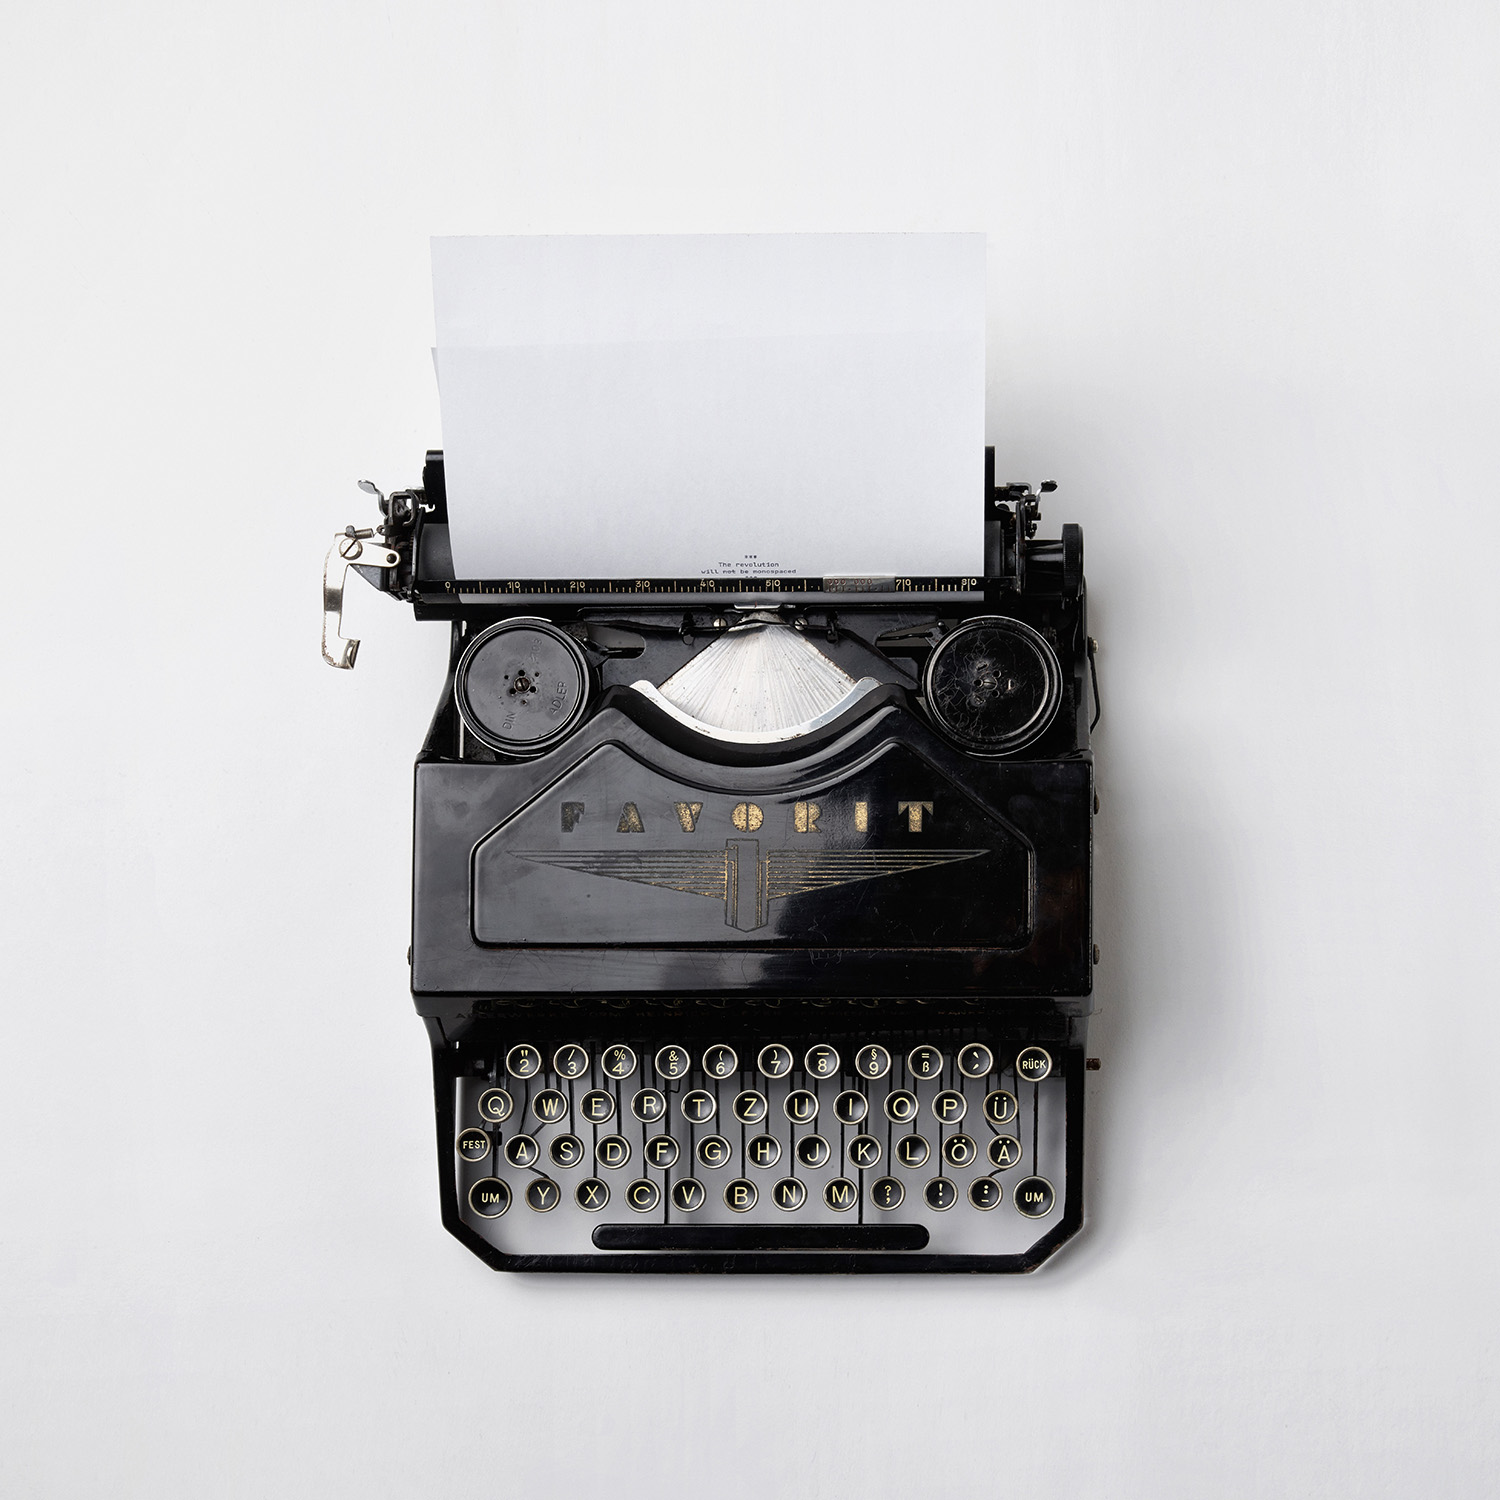
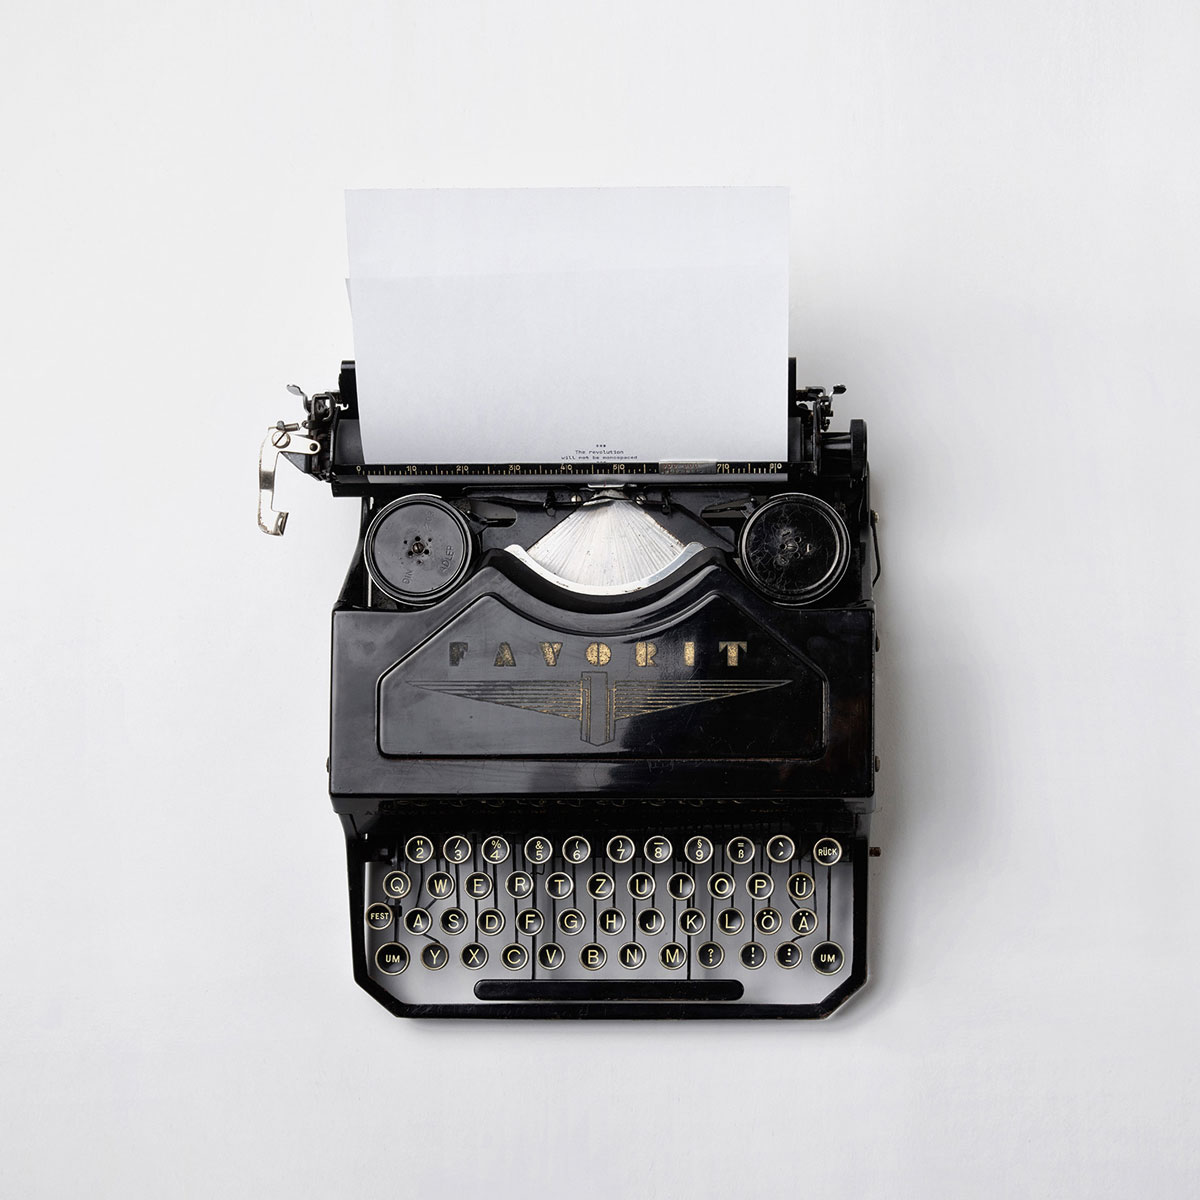
image quality

diff --git a/portfolio.html b/portfolio.html
@@ -37,7 +37,10 @@
               <h2>FRILE</h2>
               <p>For this assignment we were asked to create a magazine with a target audience in USA and Canada.
                 We had to produce a name, logo, front/back page, images, illustrations and a complete layout.
-                I created a magazine that is a simplistic with some colour, focuses on the use of typography,
+                I created a magazine that is a simplistic with some colour with focuses on the use of typography.
+
+
+
                 gives the impression of exclusiveness, but are at the same time personal. Overall, I also
                 wanted to give a positive, light and free feel to the magazine. The name “frile” comes from this
                 idea of light and free. Colour is added to give a positive feel, handwritten fonts to give it a
@@ -102,10 +105,10 @@
           “Farm fresh to you”, which planned to expand to Grimstad. It’s originally a US based company 
           which partners with local farmers and do home deliveries of fresh vegetables. 
           The target group for this project was the population of Grimstad, further limited to couples and 
-          couples with children as a main focus. I created a logo with a friendly and playful look to target 
+          families with children as a main focus. I created a logo with a friendly and playful look to target 
           families. The icon of the logo is a wheat field, as there are many of these in Grimstad, in-closing 
-          it in a round shape as this is a playful and friendly shape. I used warm and natural colours, colours 
-          of the field and fresh vegetables. And I choose fonts similar to does used for previous design work 
+          it in a circle as this is a playful and friendly shape. I used warm and natural colours, colours 
+          of the field and fresh vegetables. And I choose fonts similar to those used for previous design work 
           done for Grimstad, together with a handwritten font which added some personal touch to the design. 
           The round shape was re-used in colours from the logo in a pattern together with graphics of fresh 
           vegetables as a design element both on the delivery van and packaging. </p>
@@ -123,19 +126,19 @@
               <img src="/images/logo.farmfresh.png" class="d-block w-75 mx-auto" alt="...">
             </div>
             <div class="carousel-item" data-bs-interval="2000">
-              <img src="/images/bag.front.farmfresh2.png" class="d-block w-75 mx-auto" alt="...">
+              <img src="/images/bag.front.farmfresh2.jpg" class="d-block w-75 mx-auto" alt="...">
             </div>
             <div class="carousel-item">
-              <img src="/images/bag.back.farmfresh.png" class="d-block w-75 mx-auto" alt="...">
+              <img src="/images/bag.back.farmfresh.jpg" class="d-block w-75 mx-auto" alt="...">
             </div>
             <div class="carousel-item">
-              <img src="/images/deliveryvan.front.png" class="d-block w-75 mx-auto" alt="...">
+              <img src="/images/deliveryvan.front.jpg" class="d-block w-75 mx-auto" alt="...">
             </div>
             <div class="carousel-item">
-              <img src="/images/deliveryvan.side2.png" class="d-block w-75 mx-auto" alt="...">
+              <img src="/images/deliveryvan.side2.jpg" class="d-block w-75 mx-auto" alt="...">
             </div>
             <div class="carousel-item">
-              <img src="/images/deliveryvan.back.png" class="d-block w-75 mx-auto" alt="...">
+              <img src="/images/deliveryvan.back.jpg" class="d-block w-75 mx-auto" alt="...">
             </div>
           </div>
           <a class="carousel-control-prev" href="#carouselFarm-fresh" role="button" data-bs-slide="prev">
@@ -161,18 +164,18 @@
         <div class="container">
           <div class="row">
           <div class="col-12 ps-4 ps-md-auto col-md-10 col-lg-6 offset-md-1 pb-4 pb-md-5 pt-md-5">
-        <h2>THE GRIMSTAD URBAN FLOWER FESTIVAL</h2>
+        <h2>FLOWER FESTIVAL</h2>
         <p>For this assignment we were asked to promote an annual “Urban Garden and Flower Festival” in the nearest town, Grimstad. 
           We where asked to produce a logo, a brand manual and four touch points: a poster, 
           a program, a t-shirt and a ticket bracelet. </p>
           <p>To create a “Grimstad feel” over the festival I a choose a farm-like style with soft pastel colours 
           and flowers, combined with a modern font and playful layout. The modern tone was to meet also the 
           large population of young adults living in Grimstad, and the playfulness for families with children. 
-          I use several images of colourful spring flowers for inspiration to gardening. 
+          I used several images of colourful spring flowers for inspiration to gardening. 
           The logo of the festival is used in the same way on each touch-point, and several of the typography 
           elements are also re-used. The colours from the logo is used as brand colours, and the 
           leafs from the icon of the logo as a graphic element on the ticket bracelet. I also added a yellow line 
-          as a graphic element to the brand, in the yellow logo colour, which I use on several of the touch points. 
+          as a graphic element to the brand, in the yellow logo colour, which I used on several of the touch points. 
           Overall this resulted in a consistent festival brand with a look and feel I believe will appeal to the 
           intended target group, population of Grimstad.</p> 
           <p>For the brand manual please click the link below to open a PDF version.  </p>
@@ -186,19 +189,19 @@
                 <img src="/images/logo.flowerfestival.png" class="d-block w-75 mx-auto" alt="...">
               </div>
               <div class="carousel-item active" data-bs-interval="10000">
-                <img src="/images/folder.flowerfestival.front.png" class="d-block w-75 mx-auto" alt="...">
+                <img src="/images/folder.flowerfestival.front.jpg" class="d-block w-75 mx-auto" alt="...">
               </div>
               <div class="carousel-item" data-bs-interval="2000">
-                <img src="/images/folder.flowerfestival.inside.png" class="d-block w-75 mx-auto" alt="...">
+                <img src="/images/folder.flowerfestival.inside.jpg" class="d-block w-75 mx-auto" alt="...">
               </div>
               <div class="carousel-item">
-                <img src="/images/folder.flowerfestival.back.png" class="d-block w-75 mx-auto" alt="...">
+                <img src="/images/folder.flowerfestival.back.jpg" class="d-block w-75 mx-auto" alt="...">
               </div>
               <div class="carousel-item">
-                <img src="/images/Front-tshirt.SP2.png" class="d-block w-75 mx-auto" alt="...">
+                <img src="/images/Front-tshirt.SP2.jpg" class="d-block w-75 mx-auto" alt="...">
               </div>
               <div class="carousel-item">
-                <img src="/images/Back-tshirt.SP.png" class="d-block w-75 mx-auto" alt="...">
+                <img src="/images/Back-tshirt.SP.jpg" class="d-block w-75 mx-auto" alt="...">
               </div>
               <div class="carousel-item">
                 <img src="/images/poster.SP5.jpg" class="d-block w-75 mx-auto" alt="...">
@@ -234,7 +237,7 @@
             <div class="col-12 ps-4 ps-md-auto col-md-10 col-lg-6 offset-md-1 pb-4 pb-md-5 pt-md-5">
         <h2>UNGDOM I OPPDRAG</h2>
         <p>For the organization "Ungdom i Oppdrag-Oslo" I was asked to create a folder and a rollup. It was to promote 
-          the organization amongst young adults and students in Oslo. Dark blue was a colour already used a lot by the organization
+          the organization amongst young adults and students in Oslo. Dark blue was a colour already affilieted with the organization
         so I used this in combination with a light blue and yellow. This gave them a stronger brand colour scheme. I used lines and the same
         typeface on both designes to create conistency. I also used the same images, which show students working in the organizationand 
     and a street in Oslo. The logo is designed by the organization.  </p>
@@ -248,13 +251,13 @@
         
             <div class="carousel-inner">
               <div class="carousel-item active" data-bs-interval="10000">
-                <img src="/images/folder.ywam.front.png" class="d-block w-75 mx-auto" alt="...">
+                <img src="/images/folder.ywam.front.jpg" class="d-block w-75 mx-auto" alt="...">
               </div>
               <div class="carousel-item" data-bs-interval="2000">
-                <img src="/images/ywam.folder.inside.png" class="d-block w-75 mx-auto" alt="...">
+                <img src="/images/ywam.folder.inside.jpg" class="d-block w-75 mx-auto" alt="...">
               </div>
               <div class="carousel-item">
-                <img src="/images/ywam.folder.back.png" class="d-block w-75 mx-auto" alt="...">
+                <img src="/images/ywam.folder.back.jpg" class="d-block w-75 mx-auto" alt="...">
               </div>
               <div class="carousel-item">
                 <img src="/images/Rollup.ywam2.png" class="d-block w-75 mx-auto" alt="...">

diff --git a/index.html b/index.html
@@ -42,7 +42,7 @@
         <div class="header-second col-6 p-0 m-0 d-flex align-items-center align-items-md-center justify-content-start position-relative">
             <h1 class="pb-5 mb-5 ps-1">design.</h1>
             <div class="w-50 d-none d-md-block position-absolute bottom-0 mb-5 pb-5 ps-5 ms-5">
-              <p class="">On this site you can get to know me and my work. Send me a message if you are curious 
+              <p class="">On this site you can get to know me and my work. Send me a message if you are curious about
                 what I can do for you.</p>
               <div class="my-5 d-flex justify-content-end">
                 <a href="contact.html" class="link text-right mb-5">Contact me</a>
@@ -50,7 +50,7 @@
             </div>
         </div>
         <div class="w-100 d-block d-md-none text-center my-5 py-5">
-          <p class="w-75 mx-auto">On this site you can get to know me and my work. Send me a message if you are curious what I can do for you.</p>
+          <p class="w-75 mx-auto">On this site you can get to know me and my work. Send me a message if you are curious about what I can do for you.</p>
           <div class="text-center">
             <a href="contact.html" class="link d-inline">Contact me</a>
           </div>
@@ -66,7 +66,7 @@
 <section class="d-md-flex align-items-center">
   <div class="container">
       <div class="row">
-        <div class="col-12 col-md-10 offset-md-2 pt-md-5 px-5 px-md-3">
+        <div class="col-12 col-md-10 offset-md-2 pt-md-5 px-3">
           <div class="row">
             <div class="col-12 d-flex">
               <h2>FRILE</h2>
@@ -108,7 +108,7 @@
 <section class="d-md-flex align-items-center">
   <div class="container">
     <div class="row">
-      <div class="col-12 col-md-4 offset-md-8 pt-5 px-5 px-md-3">
+      <div class="col-12 col-md-4 offset-md-8 pt-5 px-3">
         <div class="row">
         <div class="col-12 d-flex">
         <h2>FARM FRESH TO YOU</h2>
@@ -125,7 +125,7 @@
   
       <div class="row pt-md-5 pb-md-5">
       <div class="d-none d-md-block col-6 offset-1">
-        <img src="/images/deliveryvan.side.png" class="w-100 van">
+        <img src="/images/deliveryvan.side.jpg" class="w-100 van">
     </div>
     <div class="col-12 ps-5 ps-md-0 col-md-3">
       <img src="/images/bag.front.farmfresh.png" class="w-100 bag">
@@ -147,7 +147,7 @@
   <section class="d-flex align-items-center">
     <div class="container">
       <div class="row">
-        <div class="col-12 col-md-10 offset-md-2 pt-md-5 px-5 px-md-3 pt-5">
+        <div class="col-12 col-md-10 offset-md-2 pt-md-5 px-3 pt-5">
           <div class="row">
             <div class="col-12 d-flex">
           <h2>FLOWER FESTIVAL</h2>
@@ -168,7 +168,7 @@
           <img src="/images/poster-flowerfestival.png" class="w-100">
       </div>
       <div class="col-12 col-md-3">
-        <img src="/images/Front-tshirt.SP.png" class="w-100">
+        <img src="/images/Front-tshirt.SP.jpg" class="w-100">
       </div>
       </div>
     <div class="row">
@@ -184,7 +184,7 @@
     <section class="d-flex align-items-center">
       <div class="container">
         <div class="row">
-          <div class="col-12 col-md-4 offset-md-8 pt-5 px-5 px-md-3">
+          <div class="col-12 col-md-4 offset-md-8 pt-5 px-3">
             <div class="row">
               <div class="col-12 d-flex">
                 <h2>UNGDOM I OPPDRAG - OSLO</h2>

diff --git a/about.html b/about.html
@@ -10,39 +10,38 @@
   </head>
   <body>
 
-    <div class="logo position-absolute top-10 end-0 pt-0 pe-5">
+    <div class="logo position-absolute top-10 end-0 pt-0 pe-4 pe-md-5">
       <img src="/images/logo.neydesign.png">
   </div>
-  <nav class="row mt-5 mb-5">
-      <div class="col-6 col-md-6">
+  <nav class="row mt-md-5 mt-4 w-100">
+      <div class="col-12 col-md-6">
         <div class="row">
-          <div class="col-9 offset-1 d-flex justify-content-around">
+          <div class="col-10 col-md-9 offset-md-1 ps-4 ps-md-auto d-flex justify-content-around">
             <div><a href="index.html">Home</a></div>
             <div><a href="portfolio.html">Portfolio</a></div>
             <div><a class="active" href="about.html">About</a></div>
             <div><a href="contact.html">Contact</a></div>
           </div>
-          <div class="redline col-3"></div>
+          <div class="redline d-none d-md-block col-md-3"></div>
         </div>
       </div>
     </nav>
 
     <section>
-      <div class="container pt-5 mt-5">
+      <div class="container pt-5 mt-md-5">
         <div class="row">
-          <div class="col-9 offset-1 pb-5">
+          <div class="col-10 ps-4 ps-md-auto col-md-3 offset-md-1 pb-md-5">
             <h1>ABOUT</h1>
           </div>
         </div>
         <div class="row">
-          <div class="col-5 offset-1 mt-3">
+          <div class="col-12 col-md-5 offset-md-1 mt-md-3 py-4 py-md-auto">
           <img class="w-100" src="/images/Front-tshirt.SP.png">
             </div>
-              <div class="col-4 d-flex flex-column justify-content-center">
+              <div class="col-12 px-4 col-md-4 offset-md-1 pt-3 pt-md-auto d-flex flex-column justify-content-center">
     
-                <p>Hi! My name is Ida Eline Neyens. I live on countryside with a sea view with 
-                 my 3 boys and little girl (husband, and three little once). I’m currently studying 
-                 graphical design at Noroff, but do a bit of freelance work next to this. I love colors, 
+                <p>Hi! My name is Ida Eline Neyens. I live on the countryside my husband and three little once. 
+                  I’m currently studying graphical design at Noroff, but do a bit of freelance work next to this. I love colors, 
                  but also simplicity. It’s these two things I try to combine in my design. With a good 
                  cup of coffe by my side I’m always ready for a new design challange. So feel free to 
                  contact me with your next project.</p>

diff --git a/contact.html b/contact.html
@@ -35,10 +35,10 @@
           </div>
         </div>
         <div class="row">
-          <div class="col-12 col-md-5 offset-md-1 mt-md-3 py-4 py-md-auto ps-md-auto">
+          <div class="col-12 col-md-5 offset-md-1 mt-md-3 py-4 py-md-auto">
           <img class="w-100" src="/images/typewriter.jpg">
             </div>
-              <div class="col-10 col-md-5 d-flex flex-column justify-content-center">
+              <div class="col-9 col-md-5 offset-3 offset-md-1 pt-5 pt-md-auto d-flex flex-column justify-content-center">
     
                 <p>PHONE: (+47) 45281712</p>
 
